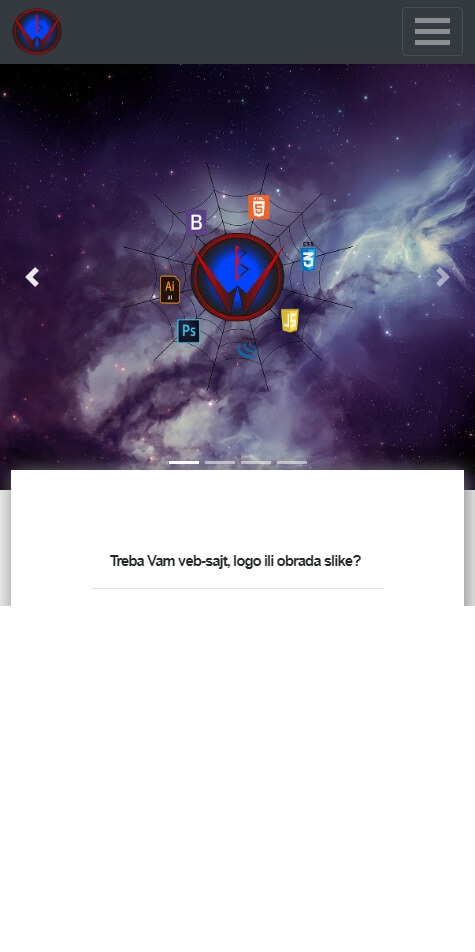
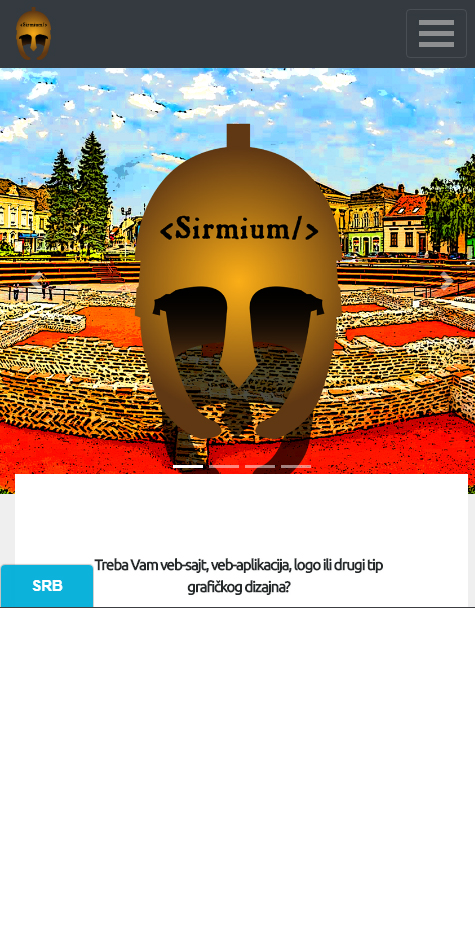
Add files via upload

diff --git a/index.html b/index.html
@@ -31,7 +31,7 @@
     		<div class="about-content">
     			<h3 class="wow bounceInLeft animated">Hi, I'm Branislav</h3>
 
-    			<p><img src="komp.png" class="komp wow bounceInLeft animated"><p class="wow bounceInRight animated">I am a final year student of Business informatics at "VSSSVPI-Sirmium", I am a front-end developer, web designer and also the co-owner of <a href="https://www.badzodev.com/" target="_blank">Badžo Web Development</a>. My professional skills include: HTML5, CSS3(including CSS Grid and Flexbox), SASS, Bootstrap, Javascript ES6, jQuery, ReactJS, Adobe Photoshop, Adobe Ilustrator, Adobe InDesign.</p></p>
+    			<p><img src="komp.png" class="komp wow bounceInLeft animated"><p class="wow bounceInRight animated">I am a graduate student of Business informatics at "VSSSVPI-Sirmium", I am a front-end developer, web designer and also the co-owner of <a href="https://www.badzodev.com/" target="_blank">Sirmium tag</a>. My professional skills include: HTML5, CSS3(including CSS Grid and Flexbox), SASS, Bootstrap, Javascript ES6, jQuery, ReactJS, Adobe Photoshop.</p></p>
         </div>
     	</section>
     </div>
@@ -48,20 +48,20 @@
     	<div class="image-area left"><a href="https://www.badzodev.com/" target="_blank"><img src="badzo3.jpg" alt="first"></a></div>
     	<div class="text-box">
     		<div class="text-box-content">
-    			<h3>Badzo web development</h3>
-    			<p class="sml_txt_scr">Badžo Web Development is an up-and-coming team...</p><p class="big_scr_txt">Badžo Web Development is an up-and-coming team specialised in developing and designing Websites, graphic design and photo editing.</p><a class="button" href="https://www.badzodev.com/" target="_blank">view project</a>
+    			<h3>Sirmium tag</h3>
+    			<p class="sml_txt_scr">Sirmium tag is an up-and-coming team...</p><p class="big_scr_txt">SIrmium tag is an up-and-coming team specialised in developing and designing Websites, graphic design and photo editing.</p><a class="button" href="https://www.badzodev.com/" target="_blank">view project</a>
     		</div>
     	</div>
     </section>
     <section class="work wow bounceInLeft animated">
-    <div class="image-area right"><a href="#" target="_blank"><img src="https://via.placeholder.com/400" alt="second"></a></div>
+    <div class="image-area right"><a href="https://github.com/SirmiumTag/Demo_Smtag" target="_blank"><img src="demosmt.jpg" alt="second"></a></div>
     <div class="text-box">
     	<div class="text-box-content">
-    		<h3>Demo mini website</h3>
-    		<p class="sml_txt_scr">This is a demo I made of a website that is...</p><p class="big_scr_txt">This is a demo I made of a website that is covered by our(badzo web) mini pack</p><a class="button" href="#" target="_blank">view project</a>
+    		<h3>Demo website</h3>
+    		<p class="sml_txt_scr">This is a demo website I made for...</p><p class="big_scr_txt">This is a demo website I made for Sirmium tag course</p><a class="button" href="https://github.com/SirmiumTag/Demo_Smtag" target="_blank">view project</a>
     	</div>
     </div>
-    </section>
+  </section> <!--
     <section class="work wow bounceInRight animated">
     <div class="image-area left"><a href="" target="_blank"><img src="https://via.placeholder.com/400" alt="third"></a></div>
     <div class="text-box">
@@ -79,10 +79,11 @@
     		<p class="sml_txt_scr">Lorem ipsum dolor sit amet, consectetur ad...</p><p class="big_scr_txt">Lorem ipsum dolor sit amet, consectetur adipiscing elit. Quisque aliquam lectus vel orci rutrum, vel consequat justo laoreet.</p><a class="button" href="#" target="_blank">view project</a>
     	</div>
     </div>
-    </section>
+  </section> -->
   </div>
 
   <div class="down" id="up">
+    <br>
     <div class="downb wow bounceInUp animate">
         <a href="#"><img src="gore.png"></a>
     </div>
@@ -91,7 +92,7 @@
 
     <section class="contact">
     	<div class="contact-content">
-    		<h4 class="wow bounceInLeft animate">Have a project in mind? Email me: <a class="email" href="mailto:badzo997@gmail.com">badzo997@gmail.com</a></h4>
+    		<h4 class="wow bounceInLeft animate">Have a project in mind? Email me: <a class="email" href="mailto:branislav306@gmail.com">branislav306@gmail.com</a></h4>
         <h5 class="wow bounceInRight animate">Or contact me by phone: <a href="tel:+381653631421">+381/65-3-631-421</a></h5>
     	</div>
     </section>
